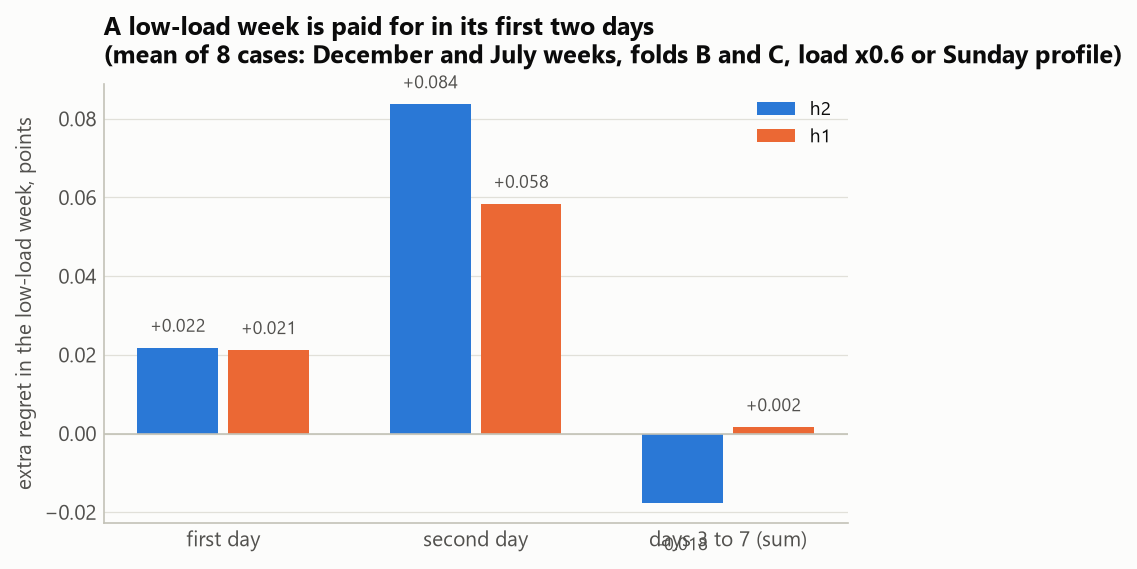
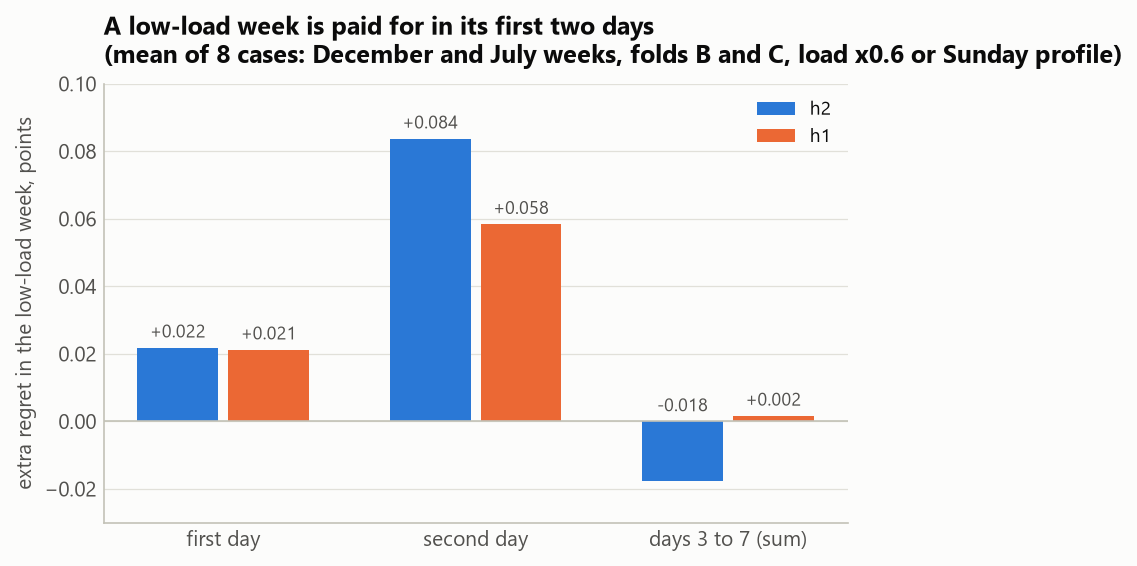
h2 probe result from the server: builds fully, 0 fallbacks, 1.4 ms per step; assumptions about obs confirmed

diff --git a/reports/status/status.html b/reports/status/status.html
@@ -49,8 +49,8 @@ figcaption strong{color:var(--ink)}
 .files{margin:0;padding:0;list-style:none;display:flex;flex-direction:column;gap:5px;font-size:.9rem;color:var(--ink2)}
 </style>
 <div class="wrap">
-<header><p class="eyebrow">FME Datathon 2026 · UPC Sostenible · battery challenge</p><h1>Hard mode status board</h1><p class="stamp">Last updated Sat 14 Nov 2026, 18:59</p></header>
-<section class="top"><div><h2>Where we are</h2><ul class="now"><li><strong>To do now, in the hard-mode tab (attempts expire at 21:00):</strong> (1) <code>submissions/probe_h2/submission.zip</code> on the free quick validation only: it is h2 with a self-report of whether it built on the server and how fast it runs; (2) <code>submissions/h2/submission.zip</code> to the ranking; (3) optionally <code>submissions/h1/nov_fill/submission.zip</code> as a comparison point.</li><li><strong>h2 = the combined agent, packaged and cleared: 20.11</strong> on our folds (21.27 / 20.37 / 18.70), 0 infractions, about 5 s per run, falls back to h1&#x27;s logic if anything fails on the server. That is 95 % of the ceiling, about 22.4 on the public test by the usual scaling.</li><li><strong>h3 is being packaged</strong> (target 19:50): h2 plus a second-round signal forecaster and a planner that doubts the signal forecast. Together +0.075 on our folds (20.19); 22 of 33 test-like weeks improve.</li><li><strong>What is still missing</strong> (about 1.1 points): the level of the price/CO₂ signal 3 to 8 hours ahead (about 0.5), which obs does not seem to contain, and the net load of the hour being decided (0.30), mostly on weekday mornings.</li><li><strong>The server&#x27;s obs is confirmed</strong> by our probe (18:50): 3 price/CO₂ values, the six readings, battery 6,000 / 1,500, first hour 24 Sep 2025. Exactly as documented.</li><li><strong>Both signals are public data</strong> (checked on three train days): the price is REE&#x27;s published PVPC hour for hour, and the CO₂ column is exactly 0.37 × the share of emitting generation REE publishes. So the test weeks&#x27; true signal could be embedded in an agent, and our agent with a perfect signal would sit where the top two teams are (about 98 % of the ceiling). Our agents do not do this; whether it is allowed is a question for the organisers.</li><li><strong>Anomalies get little weight now.</strong> The organisers&#x27; statement that nobody had reached the private maximum was wrong. We keep what is certain or free (no crashes or infractions, the real layout, holiday weeks, fallbacks) and stop tuning guards for faults.</li><li><strong>Leaderboard (17:58):</strong> top two at 23.2 and 23.1, four teams at 22.0–22.3, five at 21.0–21.8. Estimated public ceiling 23.7.</li></ul></div>
+<header><p class="eyebrow">FME Datathon 2026 · UPC Sostenible · battery challenge</p><h1>Hard mode status board</h1><p class="stamp">Last updated Sat 14 Nov 2026, 19:00</p></header>
+<section class="top"><div><h2>Where we are</h2><ul class="now"><li><strong>To do now, in the hard-mode tab (attempts expire at 21:00): submit <code>submissions/h2/submission.zip</code> to the ranking.</strong> Optionally <code>submissions/h1/nov_fill/submission.zip</code> as a comparison point.</li><li><strong>h2 is confirmed on the server</strong> (probe on the free validation, 19:00): it built fully, 0 fallbacks, 1.4 ms per step (about 3 s for a full run), same numpy and pandas as ours. Every assumption checked holds: lists shrink only in the last two hours, the state of charge is unrounded, the night-time load is frozen, solar is ×12.</li><li><strong>h2 = the combined agent, packaged and cleared: 20.11</strong> on our folds (21.27 / 20.37 / 18.70), 0 infractions, about 5 s per run, falls back to h1&#x27;s logic if anything fails on the server. That is 95 % of the ceiling, about 22.4 on the public test by the usual scaling.</li><li><strong>h3 is being packaged</strong> (target 19:50): h2 plus a second-round signal forecaster and a planner that doubts the signal forecast. Together +0.075 on our folds (20.19); 22 of 33 test-like weeks improve.</li><li><strong>What is still missing</strong> (about 1.1 points): the level of the price/CO₂ signal 3 to 8 hours ahead (about 0.5), which obs does not seem to contain, and the net load of the hour being decided (0.30), mostly on weekday mornings.</li><li><strong>The server&#x27;s obs is confirmed</strong> by our probe (18:50): 3 price/CO₂ values, the six readings, battery 6,000 / 1,500, first hour 24 Sep 2025. Exactly as documented.</li><li><strong>Both signals are public data</strong> (checked on three train days): the price is REE&#x27;s published PVPC hour for hour, and the CO₂ column is exactly 0.37 × the share of emitting generation REE publishes. So the test weeks&#x27; true signal could be embedded in an agent, and our agent with a perfect signal would sit where the top two teams are (about 98 % of the ceiling). Our agents do not do this; whether it is allowed is a question for the organisers.</li><li><strong>Anomalies get little weight now.</strong> The organisers&#x27; statement that nobody had reached the private maximum was wrong. We keep what is certain or free (no crashes or infractions, the real layout, holiday weeks, fallbacks) and stop tuning guards for faults.</li><li><strong>Leaderboard (17:58):</strong> top two at 23.2 and 23.1, four teams at 22.0–22.3, five at 21.0–21.8. Estimated public ceiling 23.7.</li></ul></div>
 <div class="gauge"><p class="eyebrow" style="margin:0">Best validated agent vs ceiling</p><div class="big">20.11 <small>of 21.26 points</small></div><div class="track" role="img" aria-label="95 percent of the ceiling"><div class="fill" style="width:94.6%"></div></div><p>h2: combined agent, packaged and cleared (<code>submissions/h2/submission.zip</code>): 95 % of the perfect-foresight ceiling (validation, mean of 3 folds, 0 infractions; the ceiling is for the same folds).</p><dl class="lb"><dt>Low BaterIA</dt><dd>23.23</dd><dt>SSA Gourmet</dt><dd>23.10</dd><dt>Los Rojos</dt><dd>22.33</dd><dt>Viquipèdia racers</dt><dd>22.25</dd><dt>PrimerMatesInfoUb</dt><dd>22.23</dd><dt>La Datoneta</dt><dd>22.02</dd><dt>5 more teams</dt><dd>21.04–21.80</dd><dt>Fa (us)</dt><dd>h2, h1 and h0 ready to submit</dd></dl><p>Hard-mode leaderboard at 17:58, public half of the hidden test. Estimated ceiling there: about 23.7 (the public test scores about 11 % higher than our folds for everyone).</p></div></section>
 <section><h2>Scoreboard</h2><div class="scroll"><table><thead><tr><th>Agent</th><th class="num">Fold A</th><th class="num">Fold B</th><th class="num">Fold C</th><th class="num">Mean</th><th>Status</th></tr></thead><tbody>
 <tr class="ref"><td>Perfect foresight (ceiling)</td><td class="num">22.44</td><td class="num">21.42</td><td class="num">19.92</td><td class="num">21.26</td><td>reference</td></tr>
@@ -107,6 +107,7 @@ figcaption strong{color:var(--ink)}
 <tr><td>Modelling that load and solar errors are correlated (−0.31)</td><td>−0.002</td><td>dropped</td></tr>
 <tr><td>End of run: plan only the hours left when the lists shrink; and nothing after 31 Aug 2026 23:00</td><td>+0.05 and +0.07</td><td>adopt both; the second cannot hurt unless the run went past August</td></tr>
 <tr><td>Running LightGBM on the server for the load model</td><td>a model string it cannot parse kills the Python process, which no fallback can catch</td><td>replaced by walking the trees with numpy (bit-identical), rules-only as the fallback</td></tr>
+<tr><td>Second probe: h2 itself on the 48 validation hours, reporting on itself</td><td>built fully, 0 fallbacks, 1.4 ms per step, same library versions; lists shrink only in the last 2 hours, state of charge unrounded, night load frozen, solar ×12</td><td>h2 confirmed on the server</td></tr>
 <tr><td>Probe on the free quick validation: what does the server&#x27;s obs contain?</td><td>exactly what the site documents: 3 values, six readings, 6,000 / 1,500, first hour 24 Sep 2025</td><td>confirmed; &quot;the server sends more hours&quot; ruled out</td></tr>
 <tr><td>Signal forecaster round 2: bridge to the stored day after each week; night-time level from a per-hour model</td><td>+0.045 (all folds positive)</td><td>adopt in h3</td></tr>
 <tr><td>Signal forecaster: boosted second stage with weather and campus readings; per-hour models everywhere; level +3 %; spread ×0.85 / ×1.15</td><td>better accuracy, no reliable score gain</td><td>not adopted; accuracy has failed to convert to score three times</td></tr>
@@ -132,6 +133,6 @@ figcaption strong{color:var(--ink)}
 <figure><img src="figs/f5_night_freeze.png" alt="The meter is frozen at night"><figcaption><strong>The meter is frozen at night.</strong> From 23:00 to 05:00 the recorded load repeats the last reading, so the next hour is known exactly (19 % of the discharge energy). The largest discharges fall in the evening and at 06:00–08:00, where the load moves most.</figcaption></figure>
 <figure><img src="figs/losses.png" alt="Where the naive agent loses score"><figcaption><strong>Where the naive agent loses score.</strong> Points lost against perfect foresight, by which information the agent lacks. Grey bars are diagnostic runs; blue bars are legal agents.</figcaption></figure>
 </div></section>
-<section><h2>Log</h2><ul class="log"><li><time>18:59</time><span>Web check done: the price and CO₂ series are REE&#x27;s public data, so the test weeks&#x27; true signal is obtainable. Our agents do not use it; recommended asking the organisers whether external data is allowed.</span></li><li><time>18:58</time><span>Asked the packager for h3 (h2 + the two signal improvements, three-level fallback).</span></li><li><time>18:55</time><span>Integrator: the two signal improvements stack to +0.075 (20.19) and hold week by week. h2 cleared: packager&#x27;s final pass clean, my own re-check of the 18:45 build clean.</span></li><li><time>18:52</time><span>At your request, started a check of whether the train price and CO₂ series are REE&#x27;s published data (train days only). I will not put test-week values into an agent unless the organisers allow external data.</span></li><li><time>18:51</time><span>Built <code>submissions/probe_h2/</code>: h2 with a self-report for the free validation.</span></li><li><time>18:50</time><span>You ran the obs probe: the server&#x27;s obs is exactly as documented.</span></li><li><time>18:46</time><span>Signal round 2 (+0.045) and signal-aware planning (+0.057) finished. Diagnostic: the planner pays for the level of the next six hours, not the order of the hours.</span></li><li><time>18:39</time><span>Red-team found that a state of charge rounded by the server would cause dozens of infractions. Widened the final clamp margin to 0.01 kW in h1 (0 infractions with rounding, −0.00004 on clean folds) and rebuilt both h1 ZIPs; h2 gets the same change in its rebuild.</span></li><li><time>18:37</time><span>Sent h2&#x27;s final settings to the packager (calendar end of run). Saved the integrator&#x27;s report.</span></li><li><time>18:36</time><span>Integrator finished: 20.04 with the safe end-of-run rule, 20.11 with the calendar end; remaining gap split into signal 0.54, net load 0.55, end of run 0.18. h2 ZIP passes every check on the previous settings; LightGBM replaced by numpy tree-walking after the packager found a bad model string kills the process.</span></li><li><time>18:29</time><span>You confirmed the organisers&#x27; statement about the private ranking was false. Anomalies down-weighted: red-team re-scoped, corrections written into the work log and the standard-mode edge report.</span></li><li><time>18:24</time><span>Launched a red-team on h1, the combined agent and h2. h2 has a first working ZIP (18:23) that matches the harness on fold A; still being checked.</span></li><li><time>18:13</time><span>h1 packaged and re-checked: 20.58 / 19.79 / 18.35, 0 infractions, 0.4 s per run, passes the validator. Recommended ZIP: <code>submissions/h1/nov_fill/submission.zip</code>.</span></li><li><time>18:11</time><span>Sent two specialists back to the signal, now the largest loss: a better forecast for hours +3 to +11, and a planner that samples scenario paths of the signal.</span></li><li><time>18:10</time><span>First combined result: 19.99 (21.14 / 20.26 / 18.57), 0 infractions. Load + solar forecasts add 0.27 on top of the new planner, the price/CO₂ forecaster 0.21. Perfect signal would give 20.71.</span></li><li><time>18:07</time><span>Built a probe for the site&#x27;s quick validation that reports the structure of the server&#x27;s obs (<code>submissions/probe_obs/</code>).</span></li><li><time>18:03</time><span>Launched the integrator: combine planner, load, solar and price/CO₂ forecasters, with proper net-load scenarios.</span></li><li><time>18:03</time><span>Price/CO₂ forecaster finished: +0.24 with net load known, +0.27 in the legal agent.</span></li><li><time>18:00</time><span>Asked the packager for h1 = h0&#x27;s forecasts + the new planner. Load forecaster finished: current-hour error 38 → 20 kW, legal agent 18.96 → 19.56.</span></li><li><time>17:58</time><span>Leaderboard check at your request: 13 teams, top two at 23.23 and 23.10. Estimated public ceiling 23.7, so they are at about 98 %, not above it.</span></li><li><time>17:56</time><span>Planner finished: planning against the net-load distribution gives 19.52 with naive forecasts (+0.71), exact and 15–40× faster.</span></li><li><time>17:55</time><span>Solar forecaster finished: better forecast +0.06, optimistic percentile for the current hour +0.17.</span></li><li><time>17:50</time><span>Re-checked h0 myself: 17.90 on fold C in the organisers&#x27; environment, 0 infractions. Run time 15–33 s per 2,016 steps with the laptop busy; the server limit is 60 s.</span></li><li><time>17:47</time><span>Packager finished: <code>submissions/h0/submission.zip</code> passes the validator and reproduces the harness scores exactly.</span></li><li><time>17:42</time><span>Analyst finished: six explainer figures and <code>reports/15_hard_eda/report.md</code>.</span></li><li><time>17:26</time><span>Leaderboard baselines agree with train: ×12 solar lowers the baseline by 16 % (CO₂) and 20 % (cost). Reminded the forecasters that hidden weeks include Christmas and late July.</span></li><li><time>17:24</time><span>One full battery is worth about 0.35 points; the optimum carries about 3,000 kWh across each week boundary. Status board published.</span></li><li><time>17:19</time><span>Launched five subagents.</span></li><li><time>17:14</time><span>First numbers: ceiling 21.26, naive legal agent 18.96. Split the loss by cause.</span></li><li><time>17:12</time><span>Wrote the hard-mode simulator, ceiling and optimiser (<code>src/hard.py</code>, <code>src/hard_mpc.py</code>). Simulator matches the organisers&#x27; environment.</span></li><li><time>16:40</time><span>Scraped the new Mode Difícil tab; wrote <code>docs/NEW_RULES.md</code>.</span></li></ul></section>
+<section><h2>Log</h2><ul class="log"><li><time>19:00</time><span>You ran the h2 probe on the free validation: h2 builds and runs on the server exactly as on our machine (0 fallbacks, 1.4 ms per step). Go for h2 on the ranking.</span></li><li><time>18:59</time><span>Web check done: the price and CO₂ series are REE&#x27;s public data, so the test weeks&#x27; true signal is obtainable. Our agents do not use it; recommended asking the organisers whether external data is allowed.</span></li><li><time>18:58</time><span>Asked the packager for h3 (h2 + the two signal improvements, three-level fallback).</span></li><li><time>18:55</time><span>Integrator: the two signal improvements stack to +0.075 (20.19) and hold week by week. h2 cleared: packager&#x27;s final pass clean, my own re-check of the 18:45 build clean.</span></li><li><time>18:52</time><span>At your request, started a check of whether the train price and CO₂ series are REE&#x27;s published data (train days only). I will not put test-week values into an agent unless the organisers allow external data.</span></li><li><time>18:51</time><span>Built <code>submissions/probe_h2/</code>: h2 with a self-report for the free validation.</span></li><li><time>18:50</time><span>You ran the obs probe: the server&#x27;s obs is exactly as documented.</span></li><li><time>18:46</time><span>Signal round 2 (+0.045) and signal-aware planning (+0.057) finished. Diagnostic: the planner pays for the level of the next six hours, not the order of the hours.</span></li><li><time>18:39</time><span>Red-team found that a state of charge rounded by the server would cause dozens of infractions. Widened the final clamp margin to 0.01 kW in h1 (0 infractions with rounding, −0.00004 on clean folds) and rebuilt both h1 ZIPs; h2 gets the same change in its rebuild.</span></li><li><time>18:37</time><span>Sent h2&#x27;s final settings to the packager (calendar end of run). Saved the integrator&#x27;s report.</span></li><li><time>18:36</time><span>Integrator finished: 20.04 with the safe end-of-run rule, 20.11 with the calendar end; remaining gap split into signal 0.54, net load 0.55, end of run 0.18. h2 ZIP passes every check on the previous settings; LightGBM replaced by numpy tree-walking after the packager found a bad model string kills the process.</span></li><li><time>18:29</time><span>You confirmed the organisers&#x27; statement about the private ranking was false. Anomalies down-weighted: red-team re-scoped, corrections written into the work log and the standard-mode edge report.</span></li><li><time>18:24</time><span>Launched a red-team on h1, the combined agent and h2. h2 has a first working ZIP (18:23) that matches the harness on fold A; still being checked.</span></li><li><time>18:13</time><span>h1 packaged and re-checked: 20.58 / 19.79 / 18.35, 0 infractions, 0.4 s per run, passes the validator. Recommended ZIP: <code>submissions/h1/nov_fill/submission.zip</code>.</span></li><li><time>18:11</time><span>Sent two specialists back to the signal, now the largest loss: a better forecast for hours +3 to +11, and a planner that samples scenario paths of the signal.</span></li><li><time>18:10</time><span>First combined result: 19.99 (21.14 / 20.26 / 18.57), 0 infractions. Load + solar forecasts add 0.27 on top of the new planner, the price/CO₂ forecaster 0.21. Perfect signal would give 20.71.</span></li><li><time>18:07</time><span>Built a probe for the site&#x27;s quick validation that reports the structure of the server&#x27;s obs (<code>submissions/probe_obs/</code>).</span></li><li><time>18:03</time><span>Launched the integrator: combine planner, load, solar and price/CO₂ forecasters, with proper net-load scenarios.</span></li><li><time>18:03</time><span>Price/CO₂ forecaster finished: +0.24 with net load known, +0.27 in the legal agent.</span></li><li><time>18:00</time><span>Asked the packager for h1 = h0&#x27;s forecasts + the new planner. Load forecaster finished: current-hour error 38 → 20 kW, legal agent 18.96 → 19.56.</span></li><li><time>17:58</time><span>Leaderboard check at your request: 13 teams, top two at 23.23 and 23.10. Estimated public ceiling 23.7, so they are at about 98 %, not above it.</span></li><li><time>17:56</time><span>Planner finished: planning against the net-load distribution gives 19.52 with naive forecasts (+0.71), exact and 15–40× faster.</span></li><li><time>17:55</time><span>Solar forecaster finished: better forecast +0.06, optimistic percentile for the current hour +0.17.</span></li><li><time>17:50</time><span>Re-checked h0 myself: 17.90 on fold C in the organisers&#x27; environment, 0 infractions. Run time 15–33 s per 2,016 steps with the laptop busy; the server limit is 60 s.</span></li><li><time>17:47</time><span>Packager finished: <code>submissions/h0/submission.zip</code> passes the validator and reproduces the harness scores exactly.</span></li><li><time>17:42</time><span>Analyst finished: six explainer figures and <code>reports/15_hard_eda/report.md</code>.</span></li><li><time>17:26</time><span>Leaderboard baselines agree with train: ×12 solar lowers the baseline by 16 % (CO₂) and 20 % (cost). Reminded the forecasters that hidden weeks include Christmas and late July.</span></li><li><time>17:24</time><span>One full battery is worth about 0.35 points; the optimum carries about 3,000 kWh across each week boundary. Status board published.</span></li><li><time>17:19</time><span>Launched five subagents.</span></li><li><time>17:14</time><span>First numbers: ceiling 21.26, naive legal agent 18.96. Split the loss by cause.</span></li><li><time>17:12</time><span>Wrote the hard-mode simulator, ceiling and optimiser (<code>src/hard.py</code>, <code>src/hard_mpc.py</code>). Simulator matches the organisers&#x27; environment.</span></li><li><time>16:40</time><span>Scraped the new Mode Difícil tab; wrote <code>docs/NEW_RULES.md</code>.</span></li></ul></section>
 <section><h2>In the repo</h2><ul class="files"><li><code>reports/README.md</code> full work log (hard mode in Part I)</li><li><code>reports/22_h2/report.md</code> h2: the combined agent packaged, how it was verified, the safety net, the server probe</li><li><code>reports/19_signal_planning/report.md</code> second round on the signal: what the planner needs, forecaster v2, planning against signal scenarios</li><li><code>reports/18_combined/report.md</code> the combined agent: what each piece adds, scenarios, sensitivity, what is still missing</li><li><code>reports/14_planner/report.md</code> the uncertainty-aware planner and its decision rule</li><li><code>reports/11_load_forecast/report.md</code> load forecast, the meter&#x27;s behaviour, holidays</li><li><code>reports/13_signal_forecast/report.md</code> price/CO₂ forecast beyond 3 hours</li><li><code>reports/12_solar_forecast/report.md</code> solar forecast: what helped, what did not</li><li><code>reports/17_hard_leaderboard/report.md</code> leaderboard snapshot and the public-ceiling estimate</li><li><code>reports/20_h1/report.md</code> h1: the packaged planner, how it was verified, the November variant</li><li><code>reports/16_h0/report.md</code> h0: the naive agent, packaged</li><li><code>reports/15_hard_eda/report.md</code> what hard mode changes, six figures</li><li><code>reports/10_hard_mode/report.md</code> first hard-mode report</li><li><code>docs/NEW_RULES.md</code> hard-mode rules</li></ul></section>
 </div>

diff --git a/reports/README.md b/reports/README.md
@@ -2,7 +2,7 @@
 
 This is the one place to see what I'm doing, what I've found and what's coming. I update it every time something lands. Branch: `claude/battery-agent`.
 
-**Last updated:** Sat 14 Nov 2026, 18:59
+**Last updated:** Sat 14 Nov 2026, 19:00
 
 **Since 16:40 the target is hard mode.** Part I below is the live part. Part II is the standard-mode log as it stood at 16:10.
 
@@ -15,7 +15,7 @@ Rules: [`docs/NEW_RULES.md`](../docs/NEW_RULES.md). First report: [`10_hard_mode
 ## H1. Where we are
 
 1. **Ceiling on our folds: 21.26 points** (22.44 / 21.42 / 19.92 with perfect foresight). The public test scores about 11 % higher for everyone; the ceiling there is about 23.7 ([`17_hard_leaderboard/report.md`](17_hard_leaderboard/report.md)).
-2. **h2 is cleared for submission:** `submissions/h2/submission.zip`, 21.27 / 20.37 / 18.70 (mean 20.11), 0 infractions, falls back to h1's logic on any failure ([`22_h2/report.md`](22_h2/report.md)). Run `submissions/probe_h2/submission.zip` on the free validation first. Also ready: **h1**: `submissions/h1/nov_fill/submission.zip`, 20.58 / 19.79 / 18.35, 0 infractions, under 1 s per run ([`20_h1/report.md`](20_h1/report.md)). Comparison point **h0**: `submissions/h0/submission.zip`, 19.84 / 19.30 / 17.90 ([`16_h0/report.md`](16_h0/report.md)).
+2. **h2 is cleared for submission and confirmed on the server:** `submissions/h2/submission.zip`, 21.27 / 20.37 / 18.70 (mean 20.11), 0 infractions, falls back to h1's logic on any failure ([`22_h2/report.md`](22_h2/report.md)). The h2 probe on the free validation (19:00) showed it builds fully there, with 0 fallbacks and 1.4 ms per step. Also ready: **h1**: `submissions/h1/nov_fill/submission.zip`, 20.58 / 19.79 / 18.35, 0 infractions, under 1 s per run ([`20_h1/report.md`](20_h1/report.md)). Comparison point **h0**: `submissions/h0/submission.zip`, 19.84 / 19.30 / 17.90 ([`16_h0/report.md`](16_h0/report.md)).
 3. **All four specialists have reported.** On its own, each adds to the naive agent (18.96): load forecaster +0.60, uncertainty-aware planner +0.56, price/CO₂ forecaster +0.27, solar forecaster +0.14.
 4. **Combined agent: 20.11** (21.27 / 20.37 / 18.70) with end-of-run handling, 0 infractions, 95 % of the ceiling ([`18_combined/report.md`](18_combined/report.md)). Still missing: the signal 3 to 11 hours ahead (0.54) and the net load of the current hour (0.30), mostly on weekday mornings.
 5. **The server's `obs` is confirmed** by our probe on the free validation (18:50): 3 price/CO₂ values, the six readings, battery 6,000 / 1,500, first hour 24 Sep 2025 00:00. Exactly as documented.
@@ -92,6 +92,7 @@ Rules: [`docs/NEW_RULES.md`](../docs/NEW_RULES.md). First report: [`10_hard_mode
 | T32 | Plan against 20 sampled error paths of the signal, half-and-half with the forecast, plus a mean correction from the last revealed error | +0.057; +0.04 to +0.05 when settings are chosen on other folds | small; candidate for h3 |
 | T33 | Averaging the first actions of the scenario plans | −0.26 | dropped |
 | T34 | Probe on the free validation: what does the server's obs contain? | exactly what the site documents | confirmed; "the server sends more" ruled out |
+| T35 | h2 probe on the free validation: does h2 build and run on the server, and do our assumptions about obs hold? | built fully, 0 fallbacks, 1.4 ms per step, same numpy and pandas; lists shrink only in the last 2 hours, state of charge unrounded, night load frozen, solar ×12 | h2 confirmed; every assumption checked holds |
 | T20 | A haircut on top of the planner's scenarios (2.5 / 5 / 10 %) | worse at every level (−0.03 to −0.35) | dropped: the scenarios already do that job |
 | T21 | Calendar that knows the next test week follows a month end | −0.08 / +0.18 / −0.05 by fold | off: 10 boundaries per fold is too few to tell |
 | T22 | November tables interpolated from October and December (train has no November) | +0.7 on a hidden month's week in a hide-one-month test; about +0.1 overall if the November week exists | adopt (h1's `nov_fill` variant) |
@@ -148,6 +149,7 @@ The red-team subagent was re-scoped accordingly at 18:29.
 
 ## H6. Log
 
+- **19:00** You ran the h2 probe on the free validation (T35): h2 builds and runs on the server exactly as on our machine. Go for h2 on the ranking.
 - **18:59** Web check finished: both signals are REE's public data (HF21). The test weeks' real values could therefore be embedded in an agent; ours do not, pending a ruling from the organisers.
 - **18:58** Asked the packager for h3 = h2 + round-2 signal forecaster + signal-aware planner (20.19 on the folds, +0.075), with fallbacks to h2's logic and then h1's.
 - **18:55** Saved the h2 and signal-round-2 reports. h2 is cleared: packager's final pass clean, and my own re-check of the 18:45 build (18.70 on fold C in the organisers' environment, 0 infractions, 0 fallbacks, 5.3 s per run).

diff --git a/docs/NEW_RULES.md b/docs/NEW_RULES.md
@@ -227,6 +227,17 @@ We ran a probe agent on the site's free quick validation; the page shows the err
 - **Timestamp:** a pandas Timestamp. The first hour is 2025-09-24 00:00 (a Wednesday), so the first test week is 24–30 September 2025.
 - The quick validation runs 48 hours and displays the text of any exception.
 
+**Second probe, 19:00: h2 itself on the 48 validation hours.** The server's report:
+
+- **h2 built and ran as designed:** no build error, the load model in use, 0 steps handed to the fallback.
+- **Speed:** 1.4 ms per step on average, 1.9 ms at most; construction 0.04 s. About 3 s for a full run, against the 60 s limit.
+- **Libraries:** numpy 2.5.4 and pandas 3.1.1, the same as on our machine.
+- **List lengths over the run:** 3 for 46 hours, then 2, then 1. The lists shrink only in the last two hours of a run, as in the published environment.
+- **State of charge:** follows the published dynamics exactly (deviation 0 over 47 steps). It is not rounded, and none of h2's commands was clipped.
+- **Night-time load:** equal to the previous reading in 12 of 12 night hours, so the meter freeze holds in the test data.
+- **Solar ÷ irradiance:** median 1.67 over 17 sunlit hours (train: 1.64), so solar is ×12 and our mapping of the weather columns is right.
+- **Wind** is 0 in every hour; the panel is warmer than the air at midday in 10 of 10 hours; no unusable reading.
+
 ## 8. Open questions for the organisers
 
 1. Which ranking decides the prizes: hard mode, standard mode, or both? The site only calls the hard-mode ranking "independent".

diff --git a/reports/22_h2/report.md b/reports/22_h2/report.md
@@ -66,6 +66,15 @@ All tested on fold B with 0 infractions. `BatteryAgent.fallbacks` counts the ste
 
 It reports counts, checks and timings; no price, CO₂, load or solar value. Locally it prints, for example: `build_error=''; load_mode='model'; fallbacks=0; ms_per_step mean=1.21; list_len=3x46,2,1; soc_max_dev_kwh=0.00e+00; night_load_same_as_previous=12/12; solar/irradiance median=1.67`. Rebuild it with `experiments/25_integration/build_probe_h2.py` after any change to h2.
 
+### Result on the server (19:00)
+
+`build_error=''; load_mode='model'; fallbacks=0; ms_per_step mean=1.41 median=1.51 max=1.9; init_s=0.04; numpy=2.5.4 pandas=3.1.1; list_len=3x46,2,1; soc_max_dev_kwh=0.00e+00 (n=47); ts_consecutive=True; solar/irradiance median=1.67 (n=17); night_load_same_as_previous=12/12; wind_nonzero=0; panel_warmer_than_air_midday=10/10; unusable_readings=0; commands charge/discharge/idle=18/18/12`
+
+- **h2 built fully on the server** and answered all 48 hours itself.
+- **The server is about as fast as our laptop** (1.4 ms per step against 1.2 here): a full run takes about 3 s.
+- **Same numpy and pandas versions** as ours.
+- **Every assumption checked holds:** lists shrink only in the last two hours, the state of charge is unrounded, the night-time load is frozen, solar is ×12.
+
 ## 7. Files
 
 - `agents/h2/build.py` (all settings in `CONFIG` at the top), `bundle.py`, `rt_main.py`, `rt_trees.py`, and generated runtime copies `rt_*.py`.
